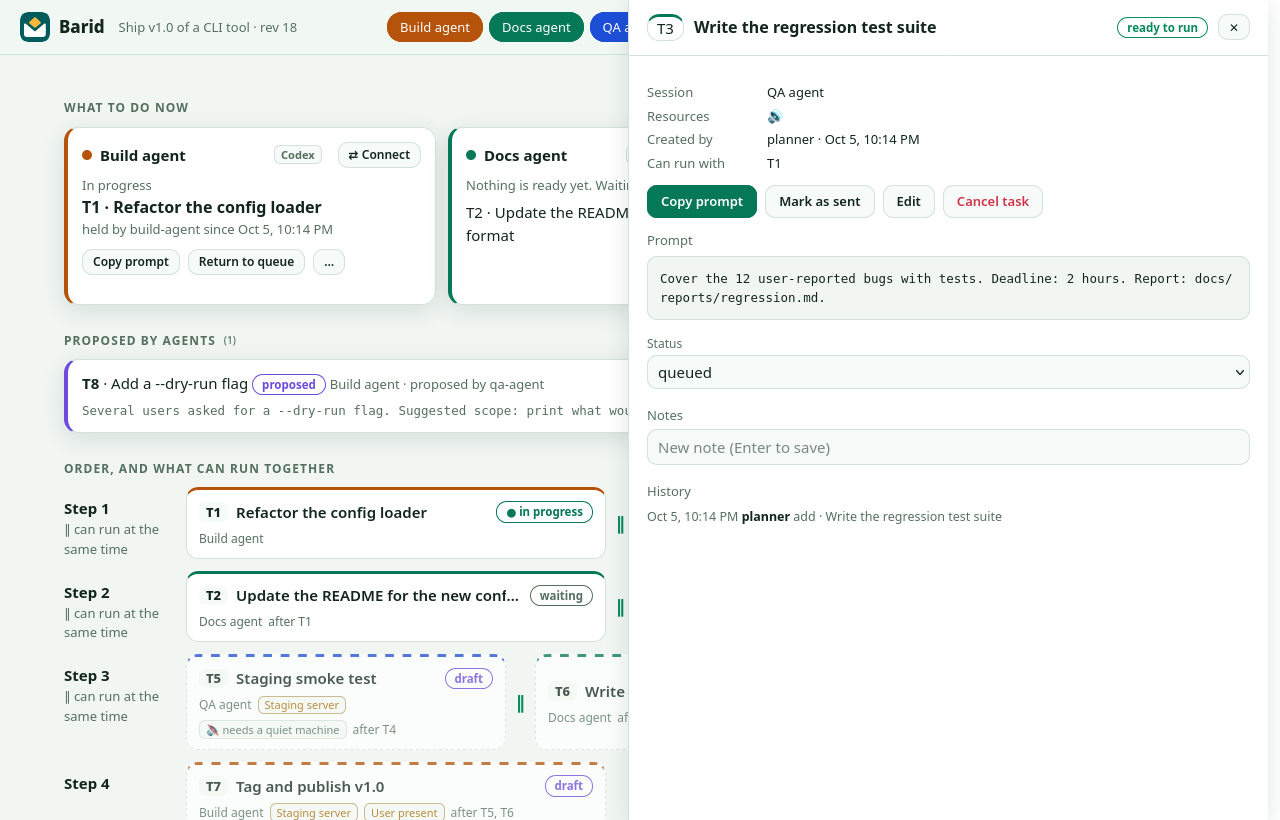
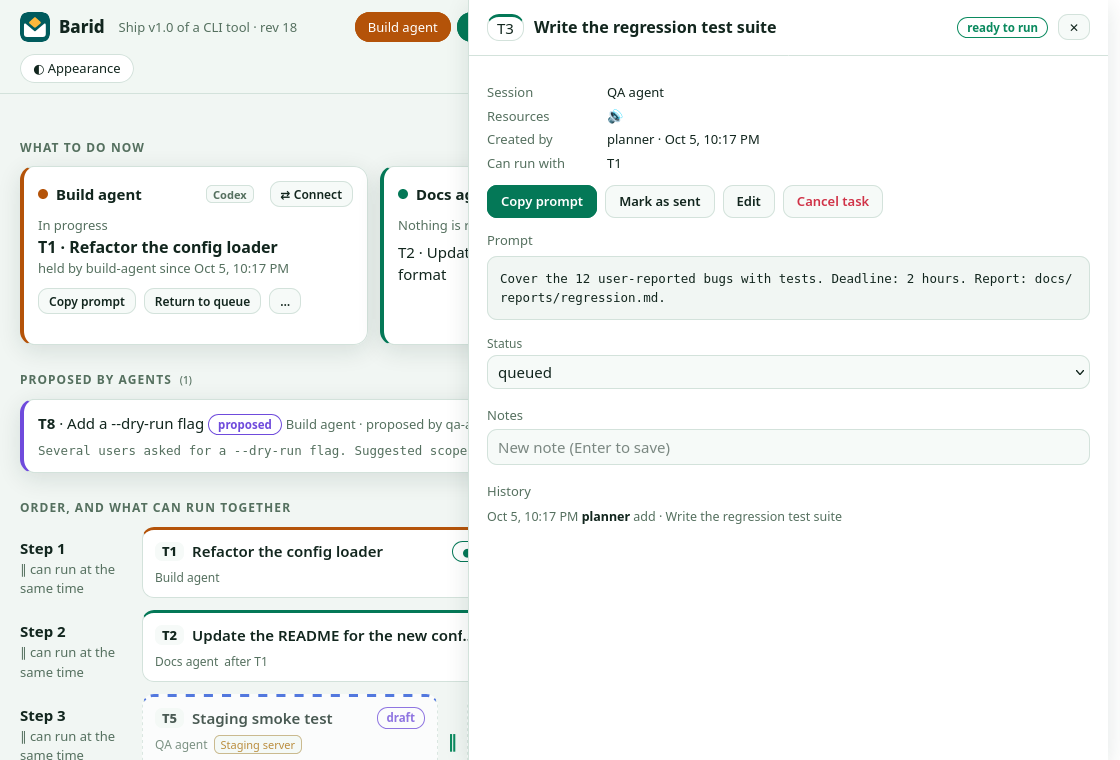
New demo GIF and screenshots; deep links in the live panel; session card header no longer wraps

diff --git a/skills/barid/scripts/panel.html b/skills/barid/scripts/panel.html
@@ -54,7 +54,8 @@ h2 small{font-weight:500;letter-spacing:0;text-transform:none}
 /* NOW */
 .now{display:grid;grid-template-columns:repeat(auto-fit,minmax(300px,1fr));gap:12px}
 .lane-card{padding:14px;border-left:4px solid var(--lane,var(--ac))}
-.lane-card .lh{display:flex;align-items:center;gap:8px;font-weight:700;margin-bottom:8px}
+.lane-card .lh{display:flex;align-items:center;flex-wrap:wrap;gap:6px 8px;font-weight:700;margin-bottom:8px}
+.lane-card .lh .btn,.lane-card .lh .tag{white-space:nowrap}
 .dot{width:10px;height:10px;border-radius:50%;background:var(--lane,var(--ac));display:inline-block}
 .big{font-size:16px;font-weight:700}
 .sub{color:var(--mute);font-size:13px}
@@ -618,9 +619,14 @@ function stamp() {
   $("live").textContent = "● " + t("updated") + " " + z(d.getHours()) + ":" + z(d.getMinutes()) + ":" + z(d.getSeconds());
   $("live").style.color = "var(--ok)";
 }
+function applyHash() {
+  // deep links, also used for screenshots: #add, #newlane, #connect:LANE, #theme, #lang, #T3 (task), #T3!edit
+  var hs = decodeURIComponent(location.hash.slice(1));
+  if (hs === "add") openAdd(); else if (hs === "theme") toggleThemePop(true); else if (hs === "lang") toggleLangPop(true); else if (hs === "newlane") openLaneAdd(); else if (hs.indexOf("connect:") === 0) openConnect(hs.slice(8)); else if (hs.slice(-5) === "!edit" && byId(hs.slice(0, -5))) openDrawer(hs.slice(0, -5), true); else if (byId(hs)) openDrawer(hs);
+}
 function load() {
-  if (window.__RB_BOARD__) { S.board = window.__RB_BOARD__; S.rev = S.board.rev; render(); var hs = decodeURIComponent(location.hash.slice(1)); if (hs === "add") openAdd(); else if (hs === "theme") toggleThemePop(true); else if (hs === "lang") toggleLangPop(true); else if (hs === "newlane") openLaneAdd(); else if (hs.indexOf("connect:") === 0) openConnect(hs.slice(8)); else if (hs.slice(-5) === "!edit" && byId(hs.slice(0, -5))) openDrawer(hs.slice(0, -5), true); else if (byId(hs)) openDrawer(hs); return Promise.resolve(); }
-  return api("/api/board").then(function (b) { stamp(); S.board = b; S.rev = b.rev; if (S.offline) { S.offline = false; $("banner").hidden = true; } render(); })
+  if (window.__RB_BOARD__) { S.board = window.__RB_BOARD__; S.rev = S.board.rev; render(); applyHash(); return Promise.resolve(); }
+  return api("/api/board").then(function (b) { stamp(); S.board = b; S.rev = b.rev; if (S.offline) { S.offline = false; $("banner").hidden = true; } render(); if (!S.hashDone) { S.hashDone = true; applyHash(); } })
     .catch(function () { if (!S.offline) { S.offline = true; $("banner").textContent = t("offline"); $("banner").hidden = false; } });
 }
 function poll() {

diff --git a/CHANGELOG.md b/CHANGELOG.md
@@ -2,7 +2,7 @@
 
 ## Unreleased
 
-- README (all three languages): adding sessions, the Connect button and `barid connect`, Kazakh; fresh panel screenshots.
+- README (all three languages): adding sessions, the Connect button and `barid connect`, Kazakh; a new demo GIF and panel screenshots. Deep links also work in the live panel (`#newlane`, `#connect:LANE`, `#lang`, `#T3`); session cards no longer wrap their Connect button.
 
 ## 0.4.1 (2026-10-05)
 
